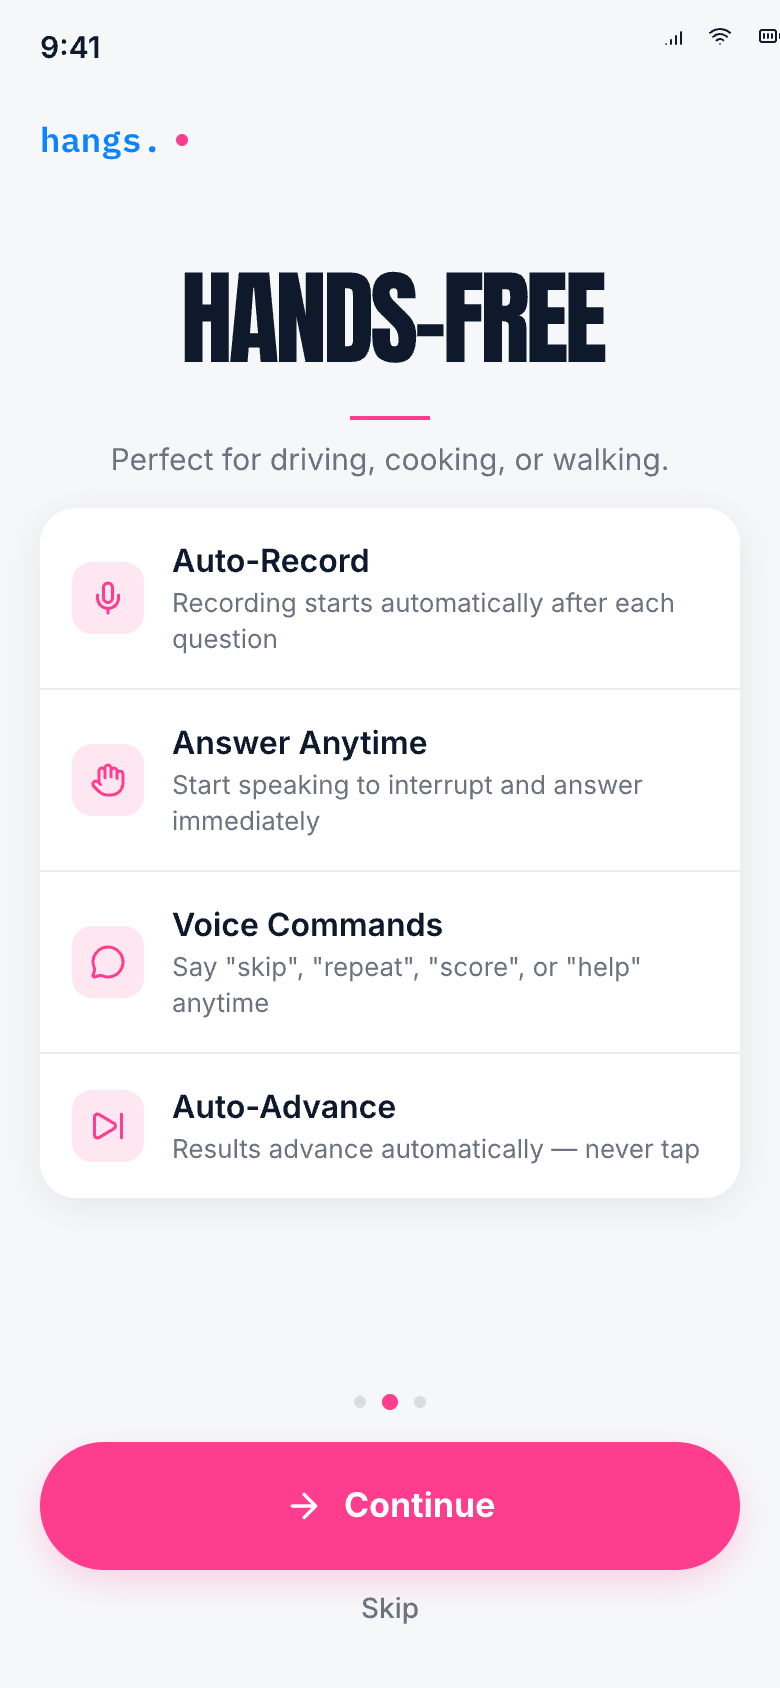
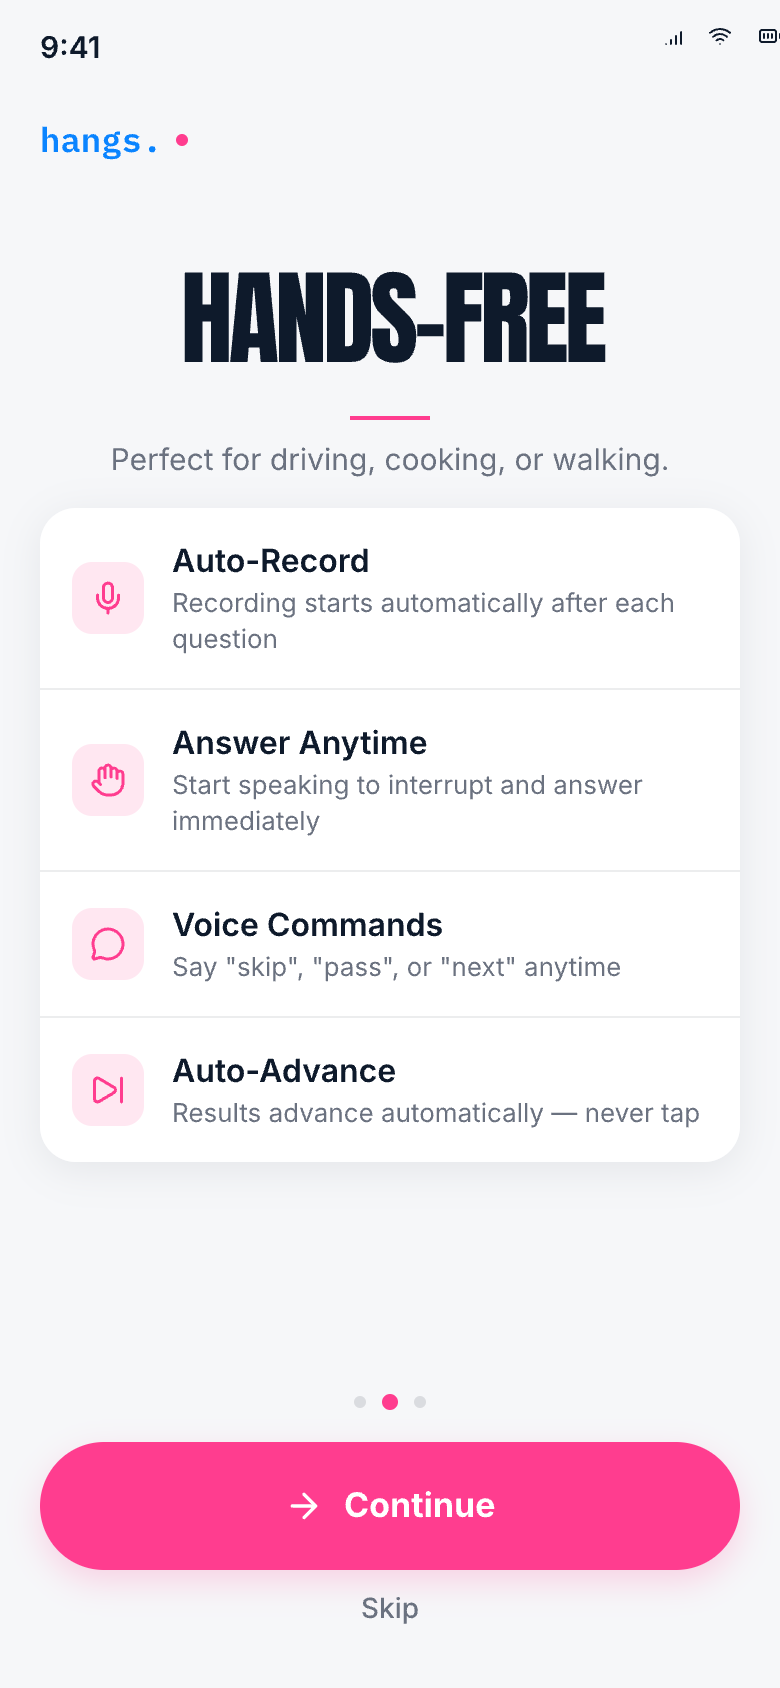
fix(ios): harden waitUntil flake + truthful onboarding voice-command copy
- QuizViewModelStreamingTests.waitUntil: 1ms real sleep per poll iteration
  (yield-spin starved wall-clock Task.sleep timers on loaded CI runners —
  autoStopCapFiresOnRerecord failed on CI run 27445302573) + post-deadline
  final predicate check. Suite 8/8 + OnboardingViewInspectorTests green
  locally on iPhone 17 Pro / iOS 26.5.
- Onboarding Features card promised voice commands 'repeat'/'score'/'help'
  that don't exist anywhere in the pipeline (repeatQuestion() has no caller;
  backend parser knows skip/pass/next). Copy now promises only real commands
  — fixed in OnboardingView.swift AND the hTdkE .pen frame + re-exported PNG.
- vAXMX AnswerOption state sheet had 'Paris' on both A-default and C-correct
  (invalid MCQ as an example); A is now 'Berlin' + re-exported PNG.
- issue-52 plan: 52.15 note — paywall frame's '10 questions'/'7h 20m'/'€4.99'
  are sample data, bind real limit/reset/StoreKit price.

diff --git a/docs/issues/issue-52-design-refresh-sweep.md b/docs/issues/issue-52-design-refresh-sweep.md
@@ -100,7 +100,7 @@ Not #52 tasks; #52's Question/Result slice is blocked until done.
 - [x] **52.12 Quiz-Complete** (`NPlqf`) — bind to 52.6 aggregation. Screenshot-verify vs `NPlqf` with a seeded finished session. — **Done 2026-06-12.** Updated `CompletionView.swift`: added `summary: QuizCompleteSummary` computed property sourced from `QuizCompleteSummary.from(...)` (task 52.6 integration); fixed breakdown card — "Avg points" row replaced with "Accuracy" (`sessionAccuracyPercent` formatted as `N%`), Correct color `.blue`→`successText` (adaptive green), Incorrect color `.pink`→`.error` (`#FF4444`). `CompletionViewInspectorTests` 6/6 GREEN on iPhone 16 Pro / iOS 26.0. Code-level VISUAL PASS vs `NPlqf.png` — all tokens/layout/components confirmed; run report at `docs/testing/runs/52.12-quiz-complete-NPlqf-2026-06-12.md`.
 - [x] **52.13 Onboarding ×4** (`gkeCn`,`hTdkE`,`haWJM`,`COHnz`) — bind to 52.5 state machine. Screenshot-verify each of the 4 pages vs its frame (incl. the 3b-Denied branch). — **Done 2026-06-12.** Rewrote `OnboardingView.swift` from local-@State to `@ObservedObject var viewModel: OnboardingViewModel`. Four distinct pages driven by `viewModel.page` enum: Welcome (pink circle + "ANSWER BY VOICE" + pink accent line + page indicator + Continue/Skip), Features (HANDS-FREE title + feature card with 4 rows), Mic Access (pink circle + "MIC ACCESS" + Allow Microphone / Maybe later), Denied (amber circle + "MIC IS OFF" + amber accent line + amber page-indicator dot + Open Settings / Type answers instead). `ContentView` updated to own `@StateObject var onboardingVM` + watch `isComplete` for dismissal; `HomeView` now relays `onReplayOnboarding` closure to `SettingsView` completing the Settings-replay path. `OnboardingViewInspectorTests` 7/7 GREEN (4 structural + 3 indicator-color tests) on iPhone 16 Pro / iOS 26.0. Code-level VISUAL pass vs all 4 frames; run report at `docs/testing/runs/52.13-onboarding-2026-06-12.md`.
 - [x] **52.14 Error** (`Fwafe`) — bind to 52.7 mapping. Screenshot-verify vs `Fwafe` with a seeded failure. — **Done 2026-06-12.** Updated inline `ErrorView` in `ContentView.swift`: parameter changed from raw `errorMessage: String` to `AppErrorModel` (52.7 binding); icon circle changed from `pinkSoft`/`pink` to `error.opacity(0.12)`/`error` (red `#FF4444`) to match Fwafe; replaced `HangsHeroBlock` with explicit `OOPS` Anton hero + error-colour accent line + `model.title`; body text sourced from `model.description`; CTA stack driven by `model.retryAction` (`.retryOperation` → Try Again + Go Home; `.goHome` → Go Home only; `.dismiss` → Dismiss only). `ErrorViewInspectorTests` 9/9 GREEN on iPhone 16 Pro / iOS 26.0. Code-level VISUAL PASS vs `Fwafe.png` — all tokens/layout confirmed; run report at `docs/testing/runs/52.14-error-Fwafe-2026-06-12.md`.
-- [ ] **52.15 Paywall + Paywall-Offline** (`u2ySy`,`PouwN`) — redesign existing PaywallView + offline variant. Screenshot-verify both vs `u2ySy`/`PouwN`.
+- [ ] **52.15 Paywall + Paywall-Offline** (`u2ySy`,`PouwN`) — redesign existing PaywallView + offline variant. Screenshot-verify both vs `u2ySy`/`PouwN`. **NB (frame verify 2026-06-13):** the frame's "all 10 free questions" count, "resets in 7h 20m" countdown and "€4.99" price are sample data — bind them to the real daily limit, real reset time and the StoreKit product price; never hardcode. Screenshot-verify tolerates these dynamic values differing from the PNG.
 
 ## Phase 4 — Fidelity sign-off (human · interactive · Opus — loop skips these)
 